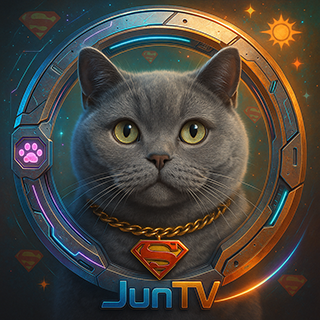
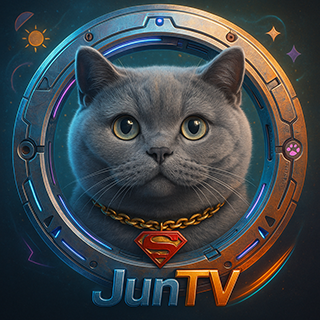
Sync https://github.com/alantang1977/X.git

diff --git a/alantang1977/config.py b/alantang1977/config.py
@@ -90,7 +90,7 @@ announcements = [
             {
                 "name": None,
                 "url": "https://gh.tryxd.cn/https://raw.githubusercontent.com/alantang1977/X/main/Pictures/Robot.mp4",
-                "logo": "https://gh.tryxd.cn/https://raw.githubusercontent.com/alantang1977/X/main/Pictures/chao-assets.png"
+                "logo": "https://gh.tryxd.cn/https://raw.githubusercontent.com/alantang1977/X/main/Pictures/SuperMAN.png"
             }
         ]
     }
